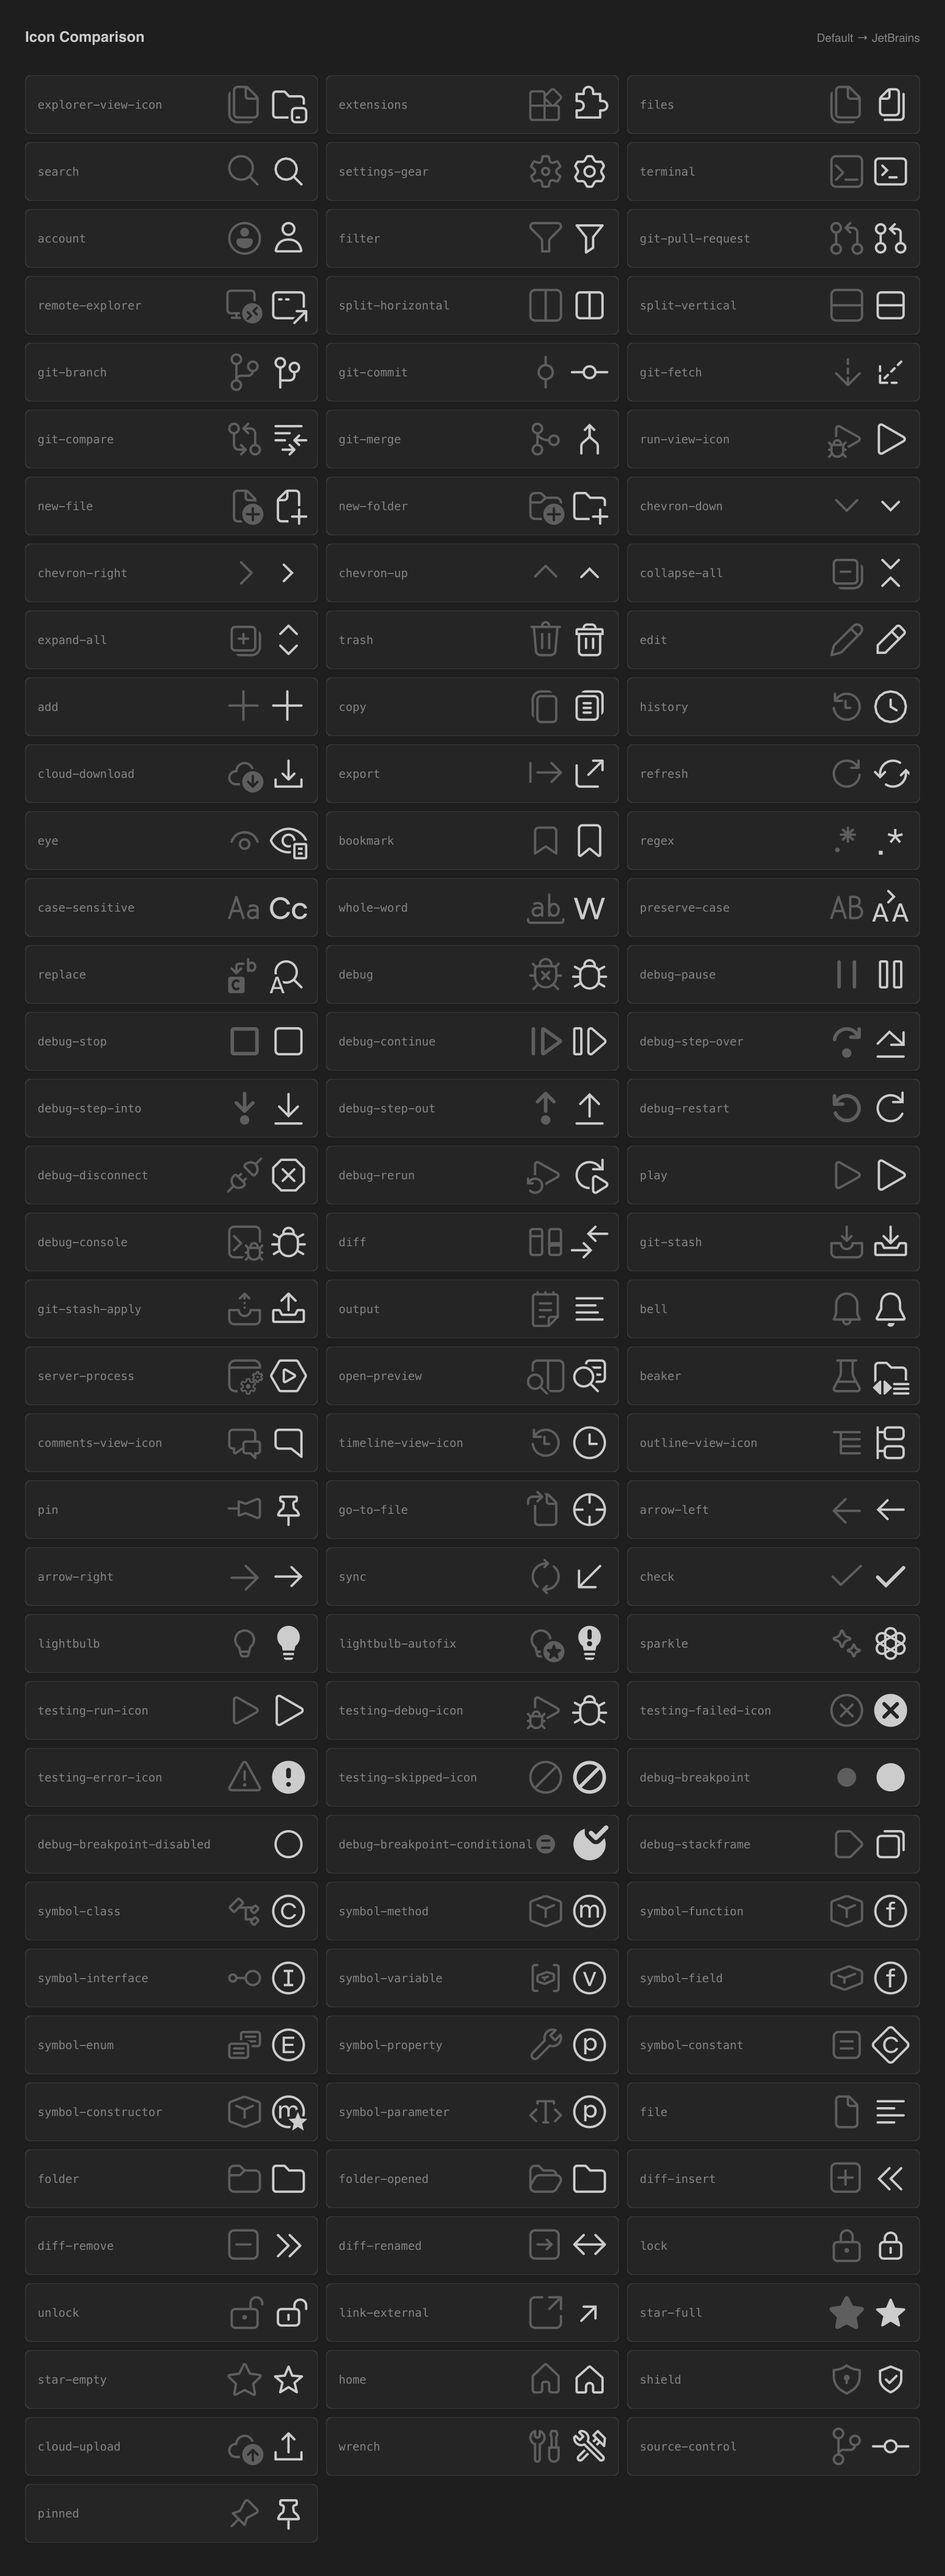
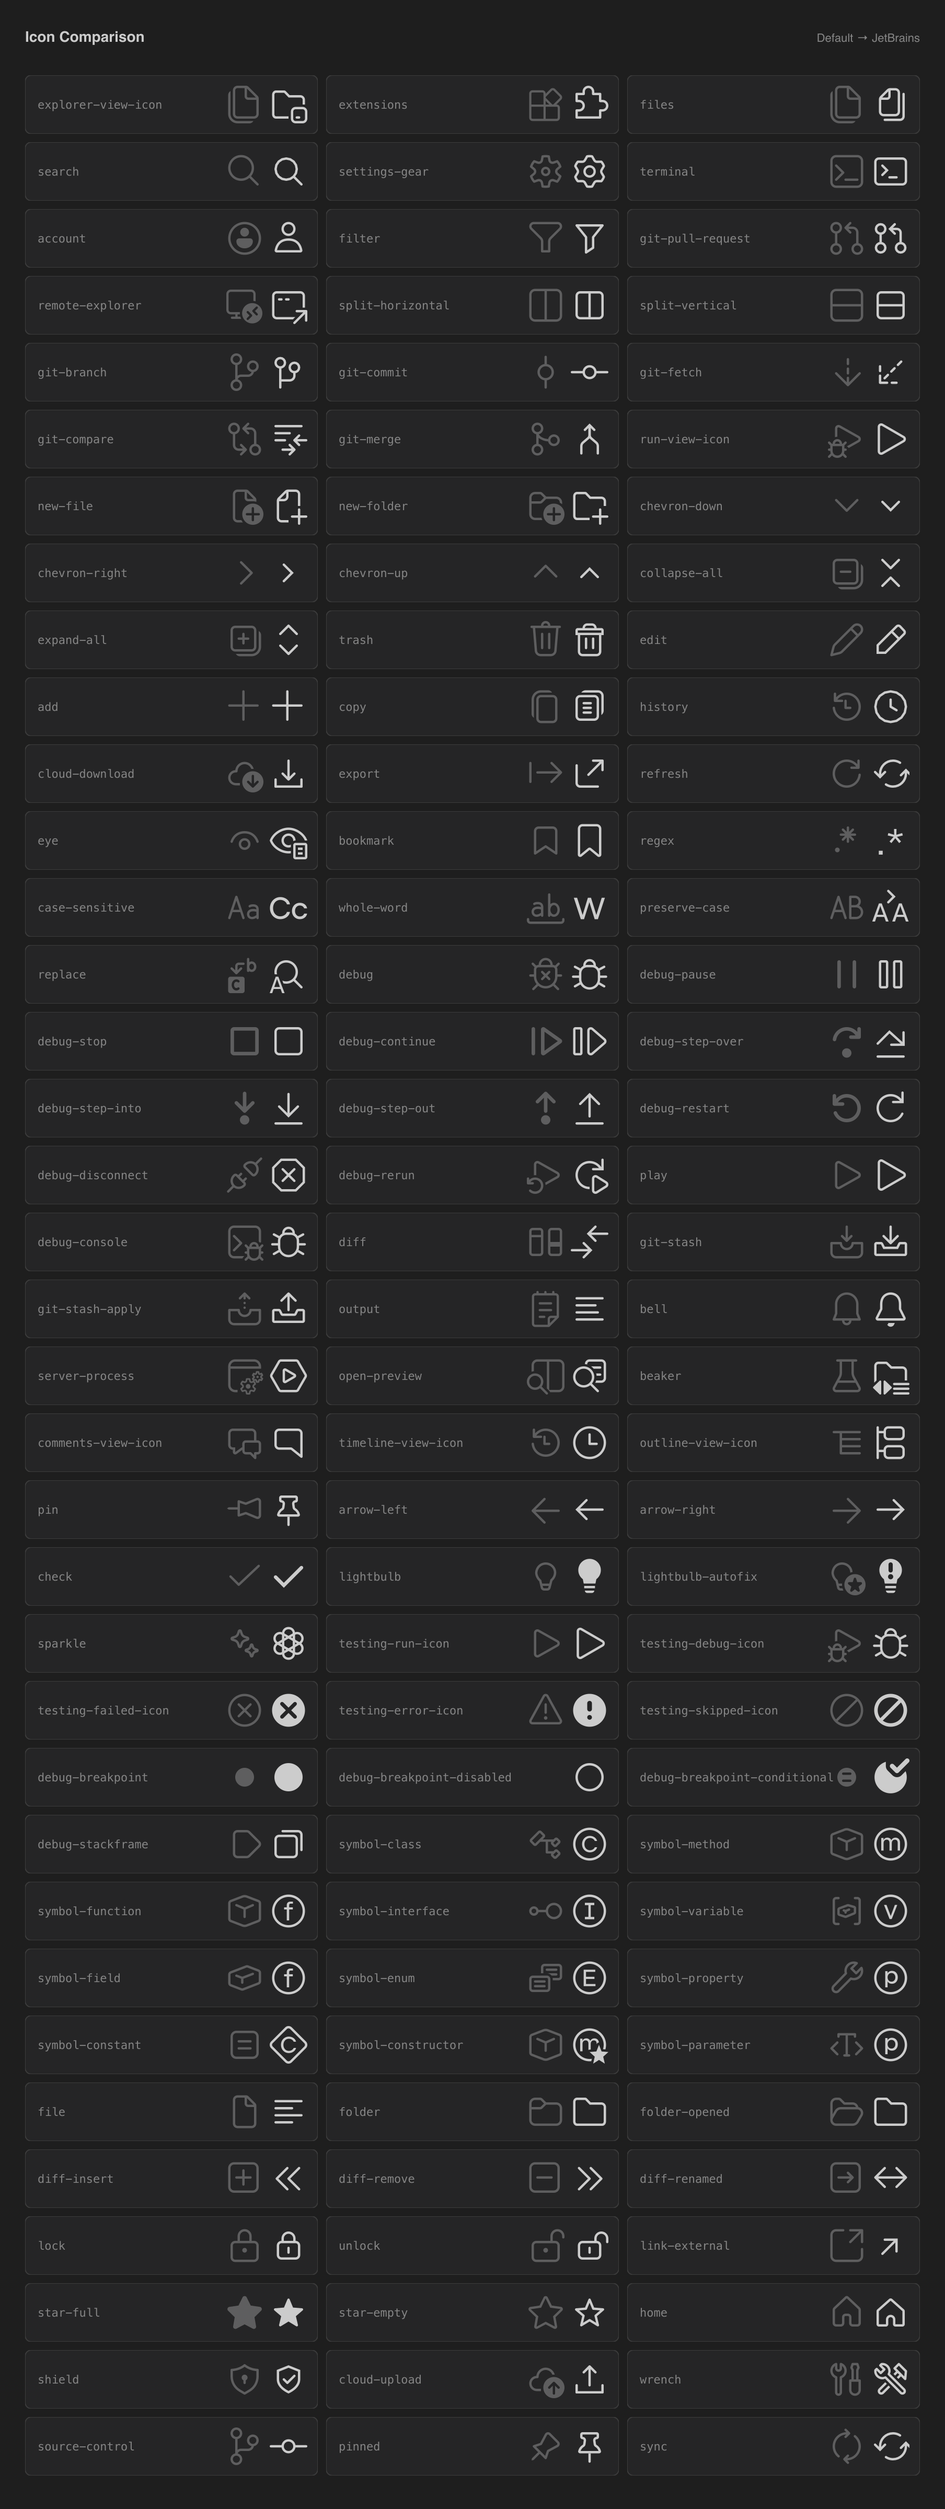
✨ feat(changelog): update changelog for version 1.2.1
* Add `discard` icon (undo) from JetBrains `expui/`
* Add `sync` → `refresh` alias
* Rework SVGs for `save-all`, `wrench`, `diff-renamed`, `debug-breakpoint-conditional`
* Temporarily disable `go-to-file`, `sync` (standalone) while icons are refined
* Total: 111 product icon definitions (108 glyphs + 3 aliases)

diff --git a/CHANGELOG.md b/CHANGELOG.md
@@ -1,5 +1,13 @@
 # Change Log
 
+## 1.2.1
+
+- Add `discard` icon (undo) from JetBrains `expui/`
+- Add `sync` → `refresh` alias (sync reuses refresh glyph)
+- Rework `save-all`, `wrench`, `diff-renamed`, `debug-breakpoint-conditional` SVGs in Inkscape for proper stroke-to-fill conversion
+- Temporarily disable `go-to-file`, `sync` (standalone) while icons are refined
+- Total: 111 product icon definitions (108 glyphs + 3 aliases)
+
 ## 1.2.0
 
 - Add 47 new product icons from JetBrains New UI (intellij-community `expui/`):
